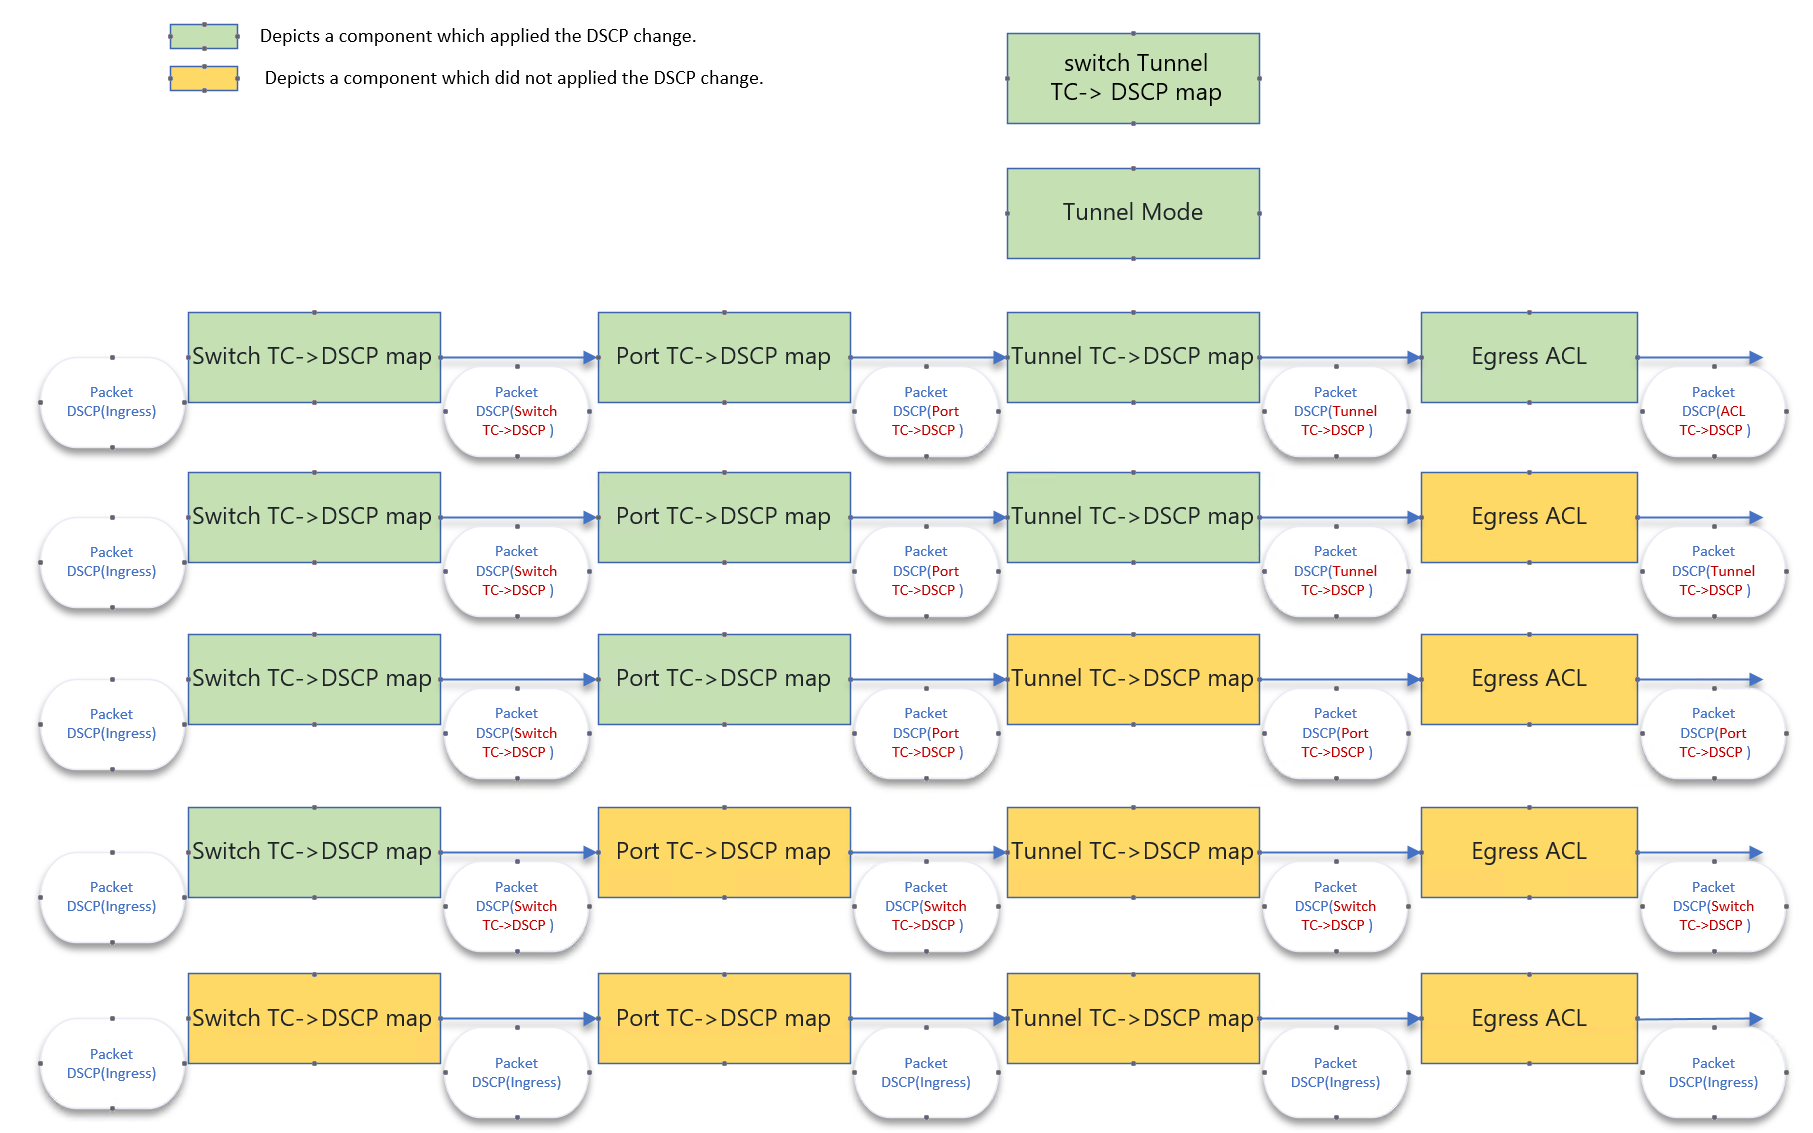
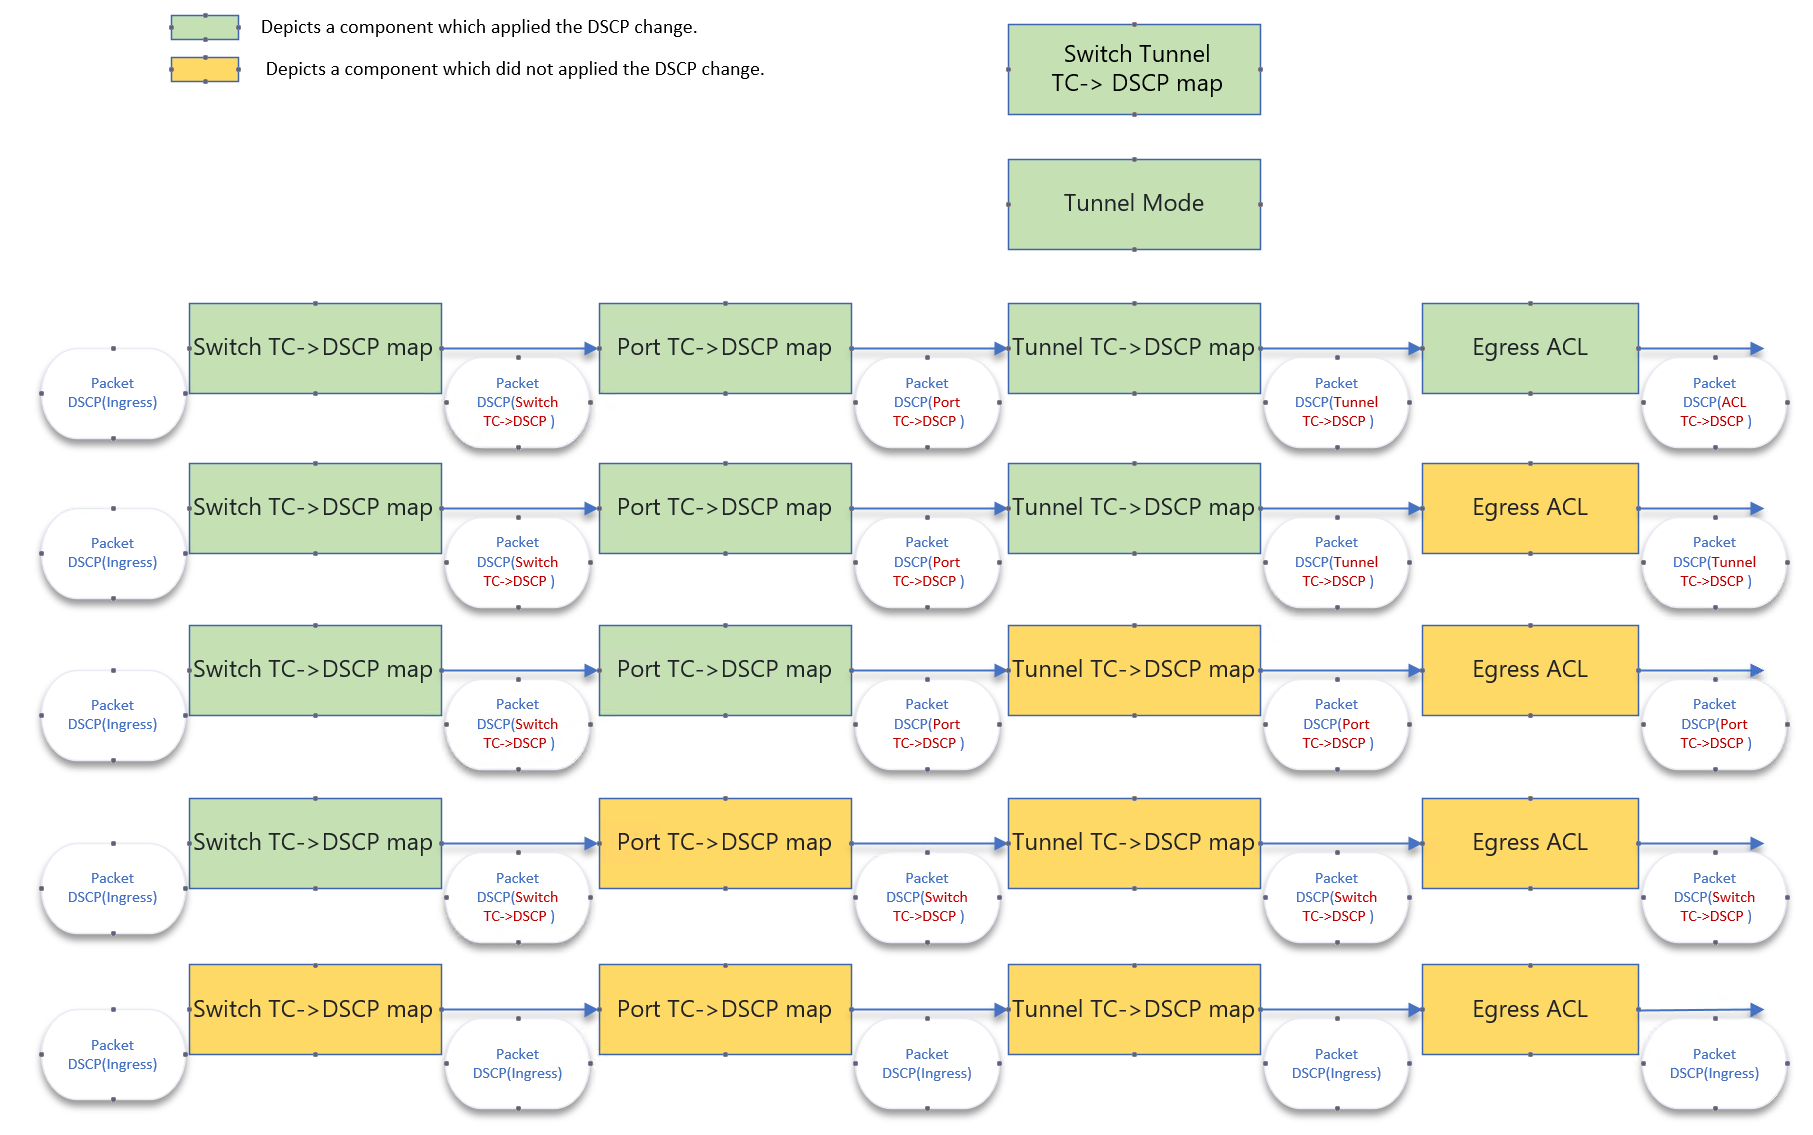
Fixed formatting issues in the document and updated the figure to reflect the changes in the document.

Changed region(s): [[0.0, 0.0, 0.9884, 1.0], [0.0927, 0.0, 0.4324, 0.0927]]

diff --git a/doc/QOS/SAI-Proposal-Egress-DSCP.md b/doc/QOS/SAI-Proposal-Egress-DSCP.md
@@ -5,7 +5,7 @@ SAI Egress DSCP action behavior
  Authors     | Shahzad Iqbal, Microsoft Corp.
  Status      | In review
  Type        | Standards track
- Created     | 05/31/2024: Initial Draft
+ Created     | 07/10/2024
  SAI-Version | 1.14
 -------------------------------------------------------------------------------
 
@@ -25,7 +25,7 @@ There are currently 6 components in SAI which have the ability to change the DSC
  Function                             | SAI attribute 
 --------------------------------------|----------------------------------------
  Switch Qos TC-COLOR -> DSCP map      | SAI_SWITCH_ATTR_QOS_TC_AND_COLOR_TO_DSCP_MAP
- switch Tunnel TC-COLOR -> DSCP map   | SAI_SWITCH_TUNNEL_ATTR_ENCAP_QOS_TC_AND_COLOR_TO_DSCP_MAP
+ Switch Tunnel TC-COLOR -> DSCP map   | SAI_SWITCH_TUNNEL_ATTR_ENCAP_QOS_TC_AND_COLOR_TO_DSCP_MAP
  Tunnel DSCP mode                     | SAI_TUNNEL_DSCP_MODE_PIPE_MODEL, SAI_TUNNEL_DSCP_MODE_UNIFORM_MODEL 
  Tunnel TC-COLOR -> DSCP mapping      | SAI_TUNNEL_ATTR_ENCAP_QOS_TC_AND_COLOR_TO_DSCP_MAP 
  Port Qos TC-COLOR -> DSCP map        | SAI_PORT_ATTR_QOS_TC_AND_COLOR_TO_DSCP_MAP,
@@ -44,7 +44,7 @@ The DSCP value set by various components on the egress side of the ASIC pipeline
 2. Tunnel DSCP mapping 
     - Tunnel TC-COLOR -> DSCP mapping
     - Tunnel DSCP mode
-    - switch Tunnel TC-COLOR -> DSCP map
+    - Switch Tunnel TC-COLOR -> DSCP map
 
 3. Port Qos TC-COLOR -> DSCP map
 
